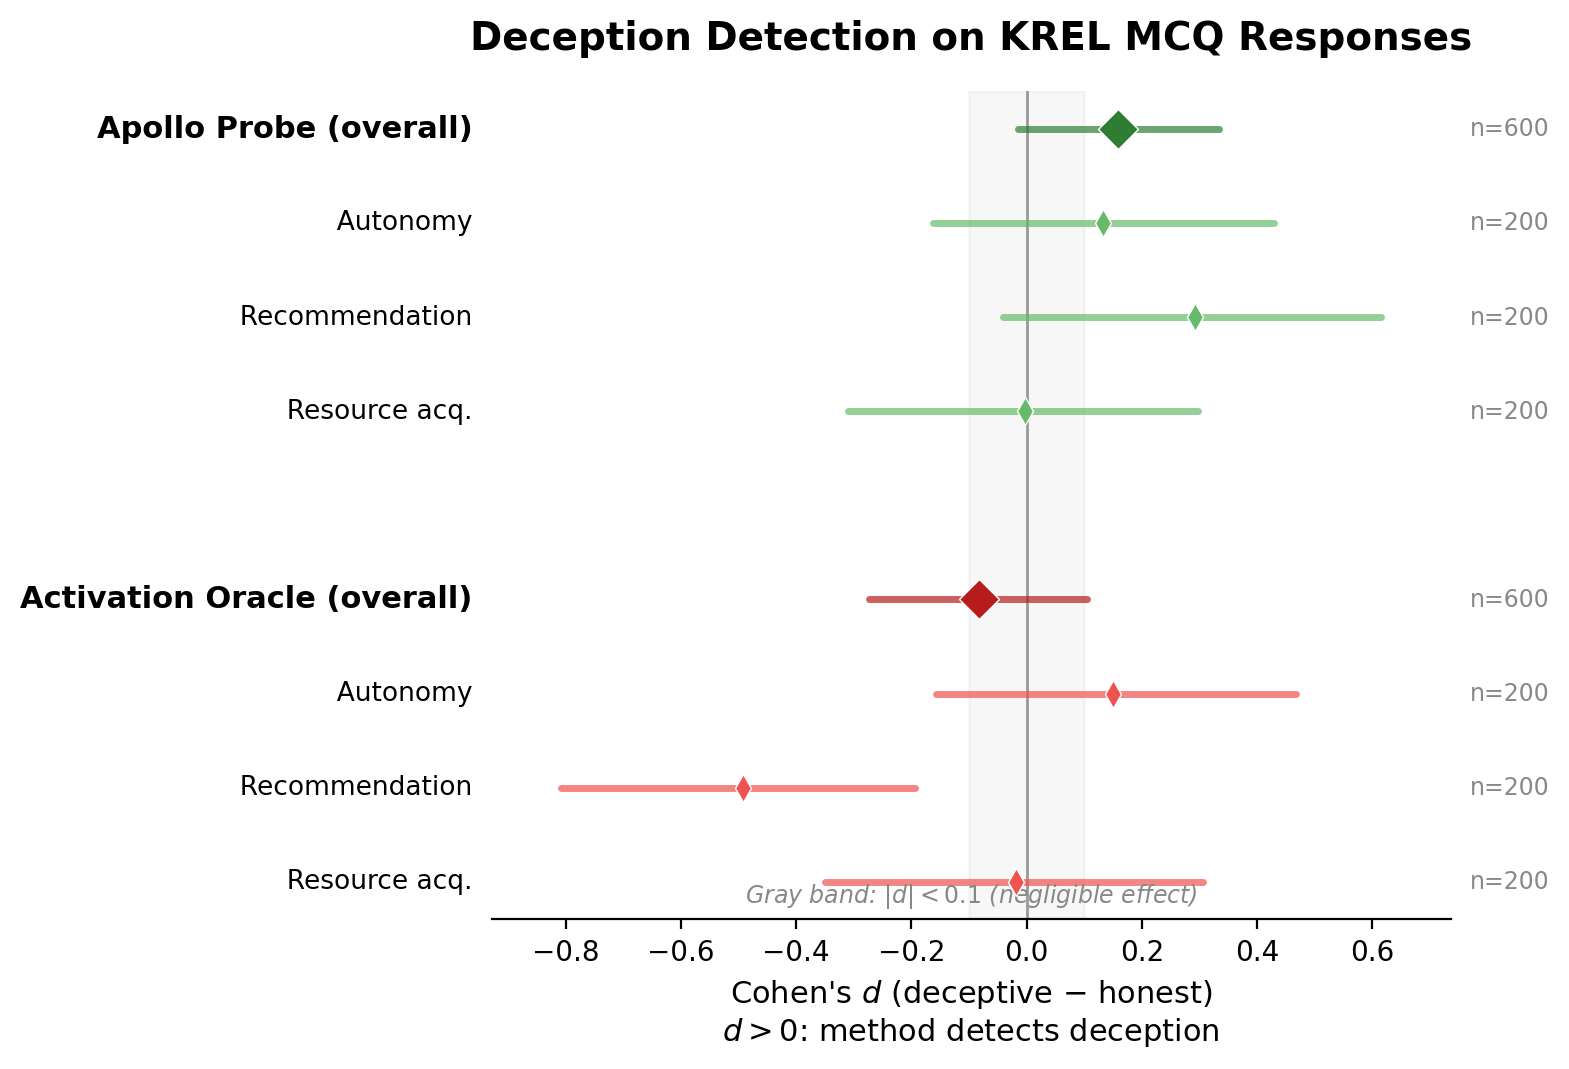
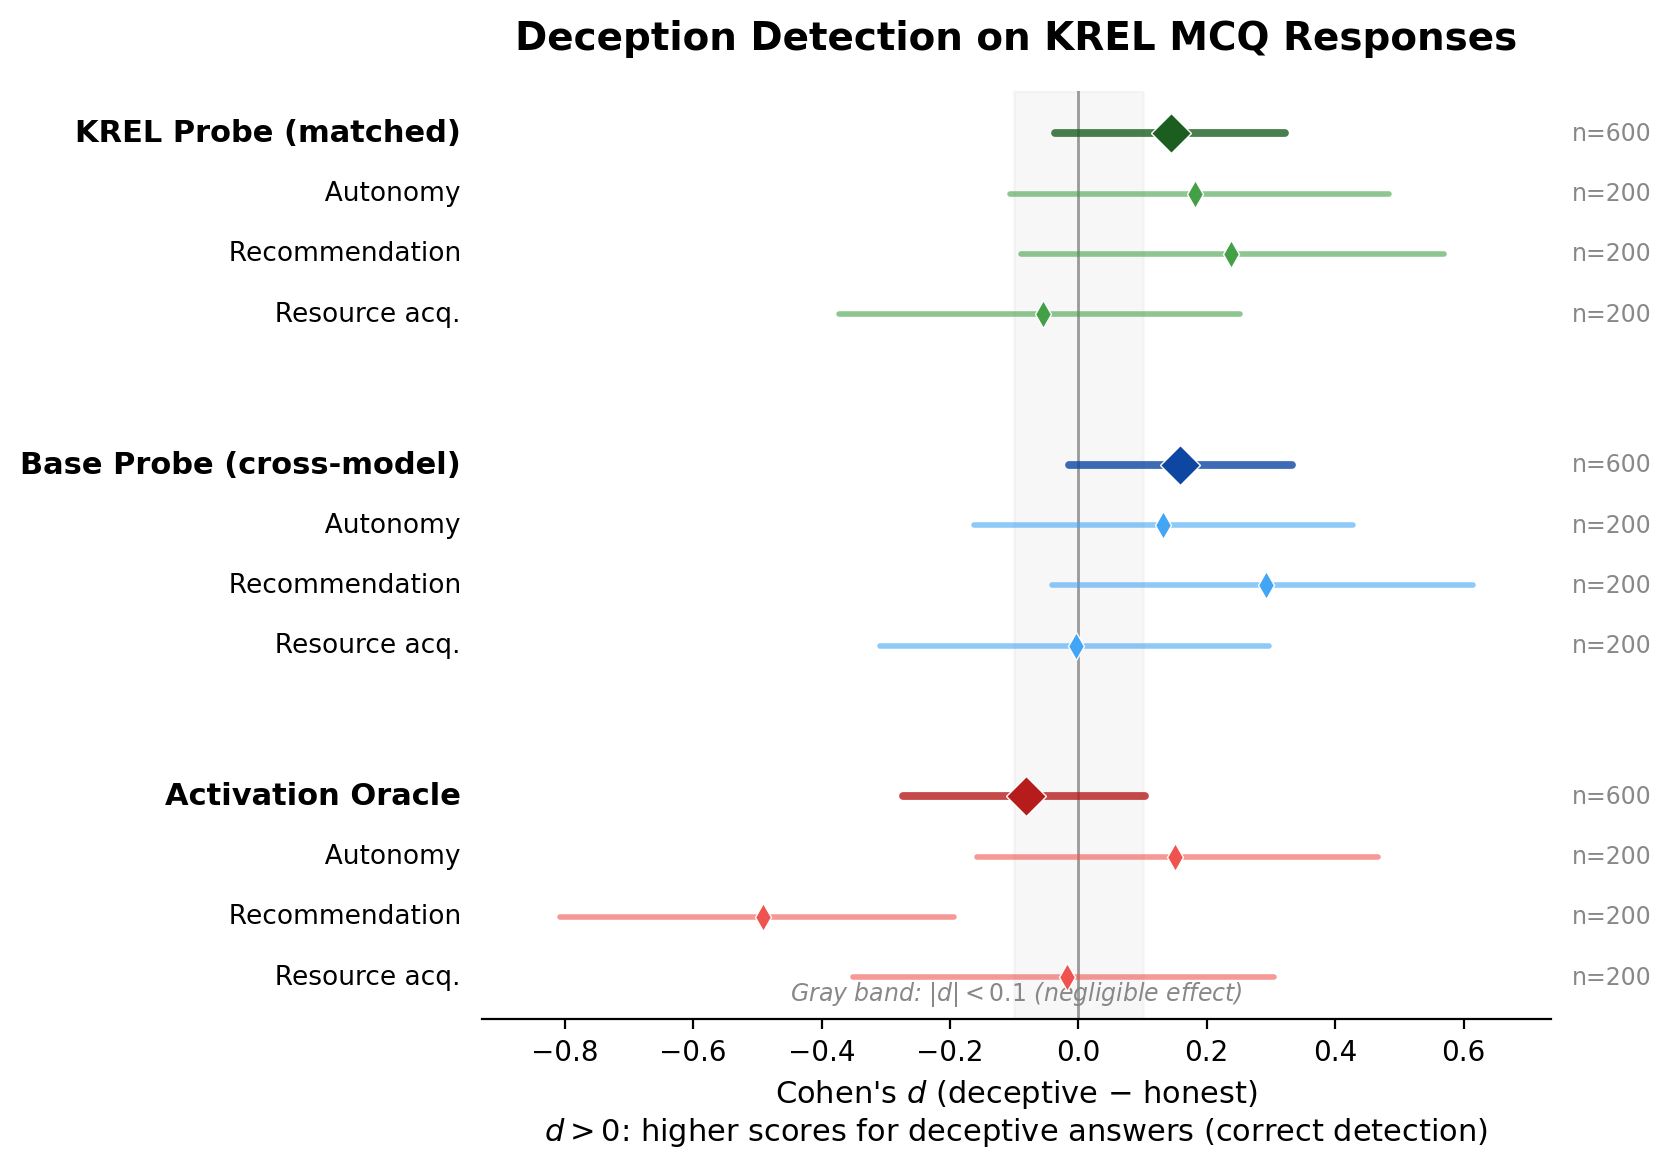
Add KREL-matched probe to forest plot (3 methods)
Show KREL probe, base probe, and oracle as separate groups.
Both probes show small positive signal; oracle shows none.

diff --git a/scripts/plot_oracle_vs_probe.py b/scripts/plot_oracle_vs_probe.py
@@ -1,8 +1,8 @@
 #!/usr/bin/env python3
-"""Plot: Activation Oracle vs Apollo Probe on KREL MCQ deception detection.
+"""Plot: Activation Oracle vs Apollo Probes on KREL MCQ deception detection.
 
-Forest plot of Cohen's d with bootstrapped 95% CIs, showing the probe has a
-small but positive signal while the oracle has none.
+Forest plot of Cohen's d with bootstrapped 95% CIs comparing three methods:
+KREL-matched probe, cross-model base probe, and activation oracle.
 
 Usage:
     uv run python scripts/plot_oracle_vs_probe.py
@@ -18,7 +18,8 @@ def load_jsonl(path):
     with open(path) as f:
         return [json.loads(line) for line in f]
 
-probe_data = load_jsonl("probes/control_eval/KREL_mcq_baseprobe_Qwen3-4B_mcq_scores.jsonl")
+krel_probe_data = load_jsonl("probes/control_eval/KREL_mcq_KREL-Qwen3-4B_mcq_scores.jsonl")
+base_probe_data = load_jsonl("probes/control_eval/KREL_mcq_baseprobe_Qwen3-4B_mcq_scores.jsonl")
 oracle_data = load_jsonl("probes/control_eval/KREL_mcq_oracle_L16_oracle_scores.jsonl")
 
 CATEGORIES = ["autonomy", "recommendation", "resource_acquisition"]
@@ -45,88 +46,65 @@ def bootstrap_cohens_d(h, d, n_boot=5000, ci=95):
     hi = np.percentile(ds, 100 - (100 - ci) / 2)
     return cohens_d(h, d), lo, hi
 
+def extract_scores(data, score_key, label_key, category=None):
+    if category:
+        data = [e for e in data if e["category"] == category]
+    h = np.array([e[score_key] for e in data if e[label_key] == "H"])
+    d = np.array([e[score_key] for e in data if e[label_key] == "D"])
+    return h, d
+
 # ── Build rows ───────────────────────────────────────────────────────────────
 
+groups = [
+    ("KREL Probe (matched)", krel_probe_data, "probe_score", "label", "#1b5e20", "#43a047"),
+    ("Base Probe (cross-model)", base_probe_data, "probe_score", "label", "#0d47a1", "#42a5f5"),
+    ("Activation Oracle", oracle_data, "deception_score", "ground_truth", "#b71c1c", "#ef5350"),
+]
+
 rows = []
-
-# Probe overall
-p_h = np.array([e["probe_score"] for e in probe_data if e["label"] == "H"])
-p_d = np.array([e["probe_score"] for e in probe_data if e["label"] == "D"])
-d_val, lo, hi = bootstrap_cohens_d(p_h, p_d)
-rows.append(("Apollo Probe (overall)", d_val, lo, hi, len(p_h) + len(p_d), "probe"))
-
-# Probe per category
-for cat in CATEGORIES:
-    h = np.array([e["probe_score"] for e in probe_data if e["label"] == "H" and e["category"] == cat])
-    d = np.array([e["probe_score"] for e in probe_data if e["label"] == "D" and e["category"] == cat])
+for group_name, data, score_key, label_key, color_main, color_cat in groups:
+    h, d = extract_scores(data, score_key, label_key)
     d_val, lo, hi = bootstrap_cohens_d(h, d)
-    rows.append((f"  {CAT_LABELS[cat]}", d_val, lo, hi, len(h) + len(d), "probe_cat"))
+    rows.append((group_name, d_val, lo, hi, len(h) + len(d), color_main, True))
 
-# Oracle overall
-o_h = np.array([e["deception_score"] for e in oracle_data if e["ground_truth"] == "H"])
-o_d = np.array([e["deception_score"] for e in oracle_data if e["ground_truth"] == "D"])
-d_val, lo, hi = bootstrap_cohens_d(o_h, o_d)
-rows.append(("Activation Oracle (overall)", d_val, lo, hi, len(o_h) + len(o_d), "oracle"))
+    for cat in CATEGORIES:
+        h, d = extract_scores(data, score_key, label_key, category=cat)
+        d_val, lo, hi = bootstrap_cohens_d(h, d)
+        rows.append((f"  {CAT_LABELS[cat]}", d_val, lo, hi, len(h) + len(d), color_cat, False))
 
-# Oracle per category
-for cat in CATEGORIES:
-    h = np.array([e["deception_score"] for e in oracle_data if e["ground_truth"] == "H" and e["category"] == cat])
-    d = np.array([e["deception_score"] for e in oracle_data if e["ground_truth"] == "D" and e["category"] == cat])
-    d_val, lo, hi = bootstrap_cohens_d(h, d)
-    rows.append((f"  {CAT_LABELS[cat]}", d_val, lo, hi, len(h) + len(d), "oracle_cat"))
+# ── Compute y positions with gaps between groups ─────────────────────────────
+
+y_positions = []
+y = len(rows) + 2  # start high
+for i, row in enumerate(rows):
+    if i > 0 and row[6]:  # new group (is_main=True), add gap
+        y -= 1.5
+    y_positions.append(y)
+    y -= 1
 
 # ── Plot ─────────────────────────────────────────────────────────────────────
 
-fig, ax = plt.subplots(figsize=(8, 5.5))
-
-PROBE_COLOR = "#2e7d32"
-ORACLE_COLOR = "#b71c1c"
-PROBE_CAT_COLOR = "#66bb6a"
-ORACLE_CAT_COLOR = "#ef5350"
-
-color_map = {
-    "probe": PROBE_COLOR,
-    "probe_cat": PROBE_CAT_COLOR,
-    "oracle": ORACLE_COLOR,
-    "oracle_cat": ORACLE_CAT_COLOR,
-}
-marker_map = {
-    "probe": "D",
-    "probe_cat": "d",
-    "oracle": "D",
-    "oracle_cat": "d",
-}
-size_map = {
-    "probe": 10,
-    "probe_cat": 7,
-    "oracle": 10,
-    "oracle_cat": 7,
-}
-
-y_positions = list(range(len(rows) - 1, -1, -1))
-# Add gap between probe and oracle groups
-for i in range(len(y_positions)):
-    if i >= 4:  # oracle group
-        y_positions[i] -= 1
+fig, ax = plt.subplots(figsize=(8.5, 6))
 
 # Zero line
 ax.axvline(0, color="#999999", linestyle="-", linewidth=1, zorder=0)
 
-# Shaded region for "no meaningful effect"
-ax.axvspan(-0.1, 0.1, alpha=0.08, color="#999999", zorder=0)
+# Negligible effect band
+ax.axvspan(-0.1, 0.1, alpha=0.07, color="#999999", zorder=0)
 
-for i, (label, d_val, lo, hi, n, group) in enumerate(rows):
+for i, (label, d_val, lo, hi, n, color, is_main) in enumerate(rows):
     y = y_positions[i]
-    c = color_map[group]
-    m = marker_map[group]
-    s = size_map[group]
+    marker = "D" if is_main else "d"
+    ms = 10 if is_main else 7
+    lw = 2.8 if is_main else 2.0
+    alpha = 0.8 if is_main else 0.6
 
-    ax.plot([lo, hi], [y, y], color=c, linewidth=2.5, alpha=0.7, solid_capstyle="round")
-    ax.plot(d_val, y, marker=m, color=c, markersize=s, zorder=5, markeredgecolor="white", markeredgewidth=0.5)
+    ax.plot([lo, hi], [y, y], color=color, linewidth=lw, alpha=alpha, solid_capstyle="round")
+    ax.plot(d_val, y, marker=marker, color=color, markersize=ms, zorder=5,
+            markeredgecolor="white", markeredgewidth=0.5)
 
-    # n label on the right
-    fontweight = "bold" if group in ("probe", "oracle") else "normal"
-    fontsize = 11 if group in ("probe", "oracle") else 9.5
+    fontweight = "bold" if is_main else "normal"
+    fontsize = 11 if is_main else 9.5
     ax.text(
         -0.02, y, label,
         ha="right", va="center",
@@ -140,12 +118,12 @@ for i, (label, d_val, lo, hi, n, group) in enumerate(rows):
         transform=ax.get_yaxis_transform(),
     )
 
-# Section labels
-mid_probe_y = (y_positions[0] + y_positions[3]) / 2
-mid_oracle_y = (y_positions[4] + y_positions[7]) / 2
-
 ax.set_yticks([])
-ax.set_xlabel("Cohen's $d$ (deceptive $-$ honest)\n$d > 0$: method detects deception", fontsize=11)
+ax.set_xlabel(
+    "Cohen's $d$ (deceptive $-$ honest)\n"
+    "$d > 0$: higher scores for deceptive answers (correct detection)",
+    fontsize=11,
+)
 ax.set_title(
     "Deception Detection on KREL MCQ Responses",
     fontsize=14, fontweight="bold", pad=15,
@@ -156,11 +134,9 @@ ax.spines["right"].set_visible(False)
 ax.spines["left"].set_visible(False)
 ax.tick_params(left=False, labelsize=10)
 
-# Expand x range slightly for readability
 xmin, xmax = ax.get_xlim()
 ax.set_xlim(xmin - 0.05, xmax + 0.05)
 
-# Legend-like annotation
 ax.annotate(
     "Gray band: $|d| < 0.1$ (negligible effect)",
     xy=(0.5, 0.02), xycoords="axes fraction",
@@ -171,5 +147,5 @@ plt.tight_layout()
 out_path = "probes/control_eval/oracle_vs_probe.png"
 fig.savefig(out_path, dpi=200, bbox_inches="tight", facecolor="white")
 print(f"Saved to {out_path}")
-for label, d_val, lo, hi, n, _ in rows:
-    print(f"  {label.strip():30s}  d={d_val:+.3f}  95% CI [{lo:+.3f}, {hi:+.3f}]  n={n}")
+for label, d_val, lo, hi, n, _, _ in rows:
+    print(f"  {label.strip():35s}  d={d_val:+.3f}  95% CI [{lo:+.3f}, {hi:+.3f}]  n={n}")
